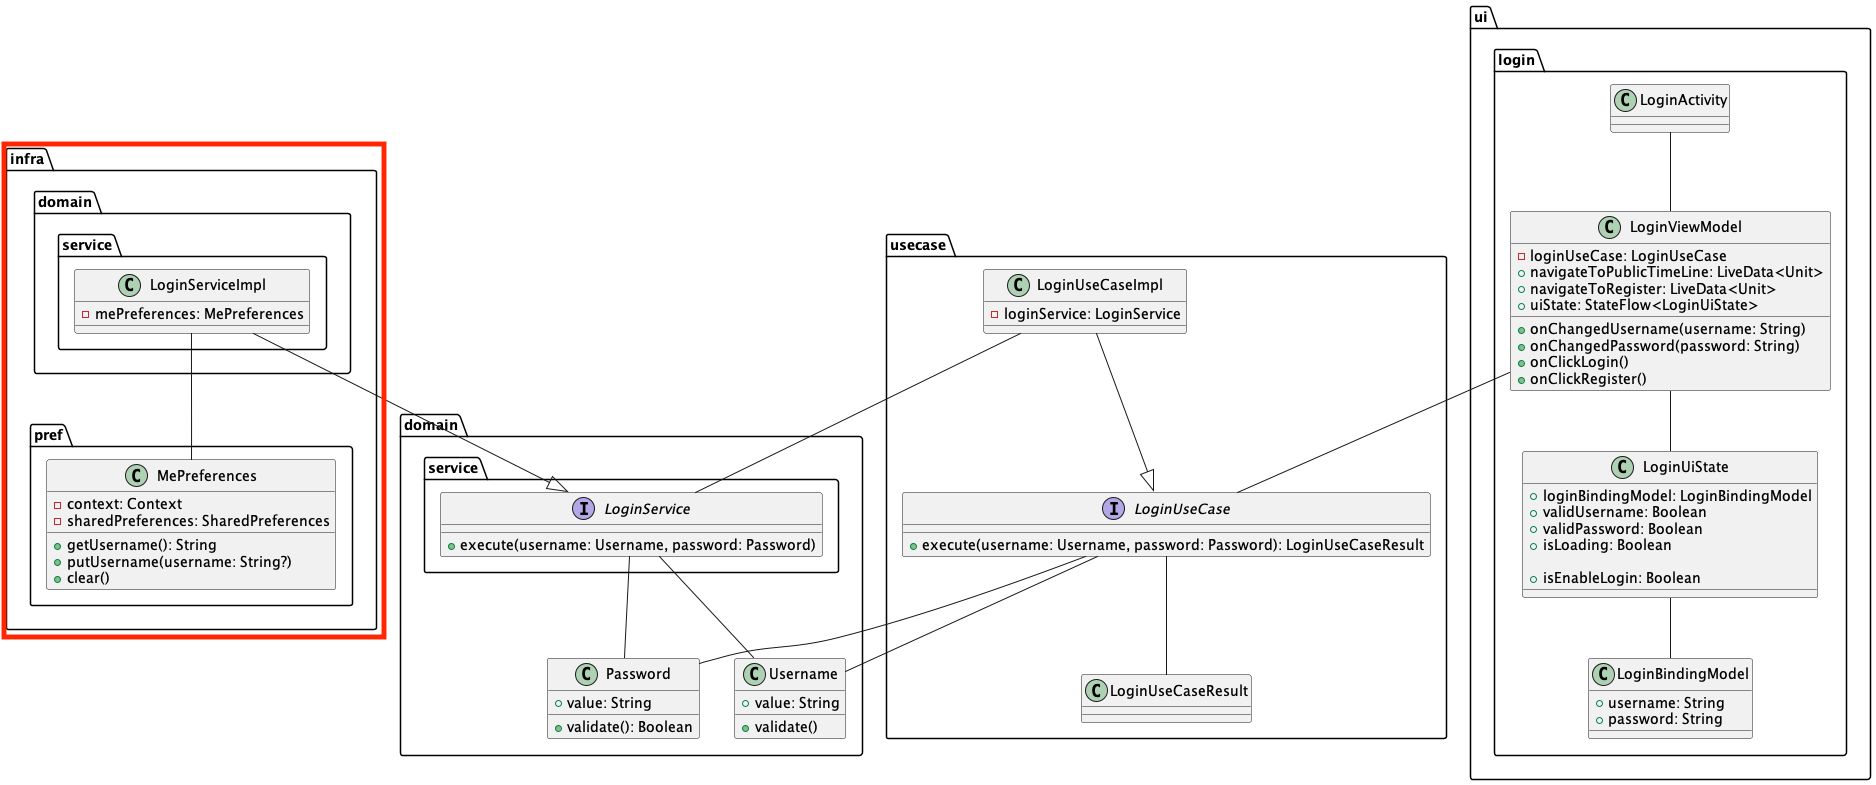
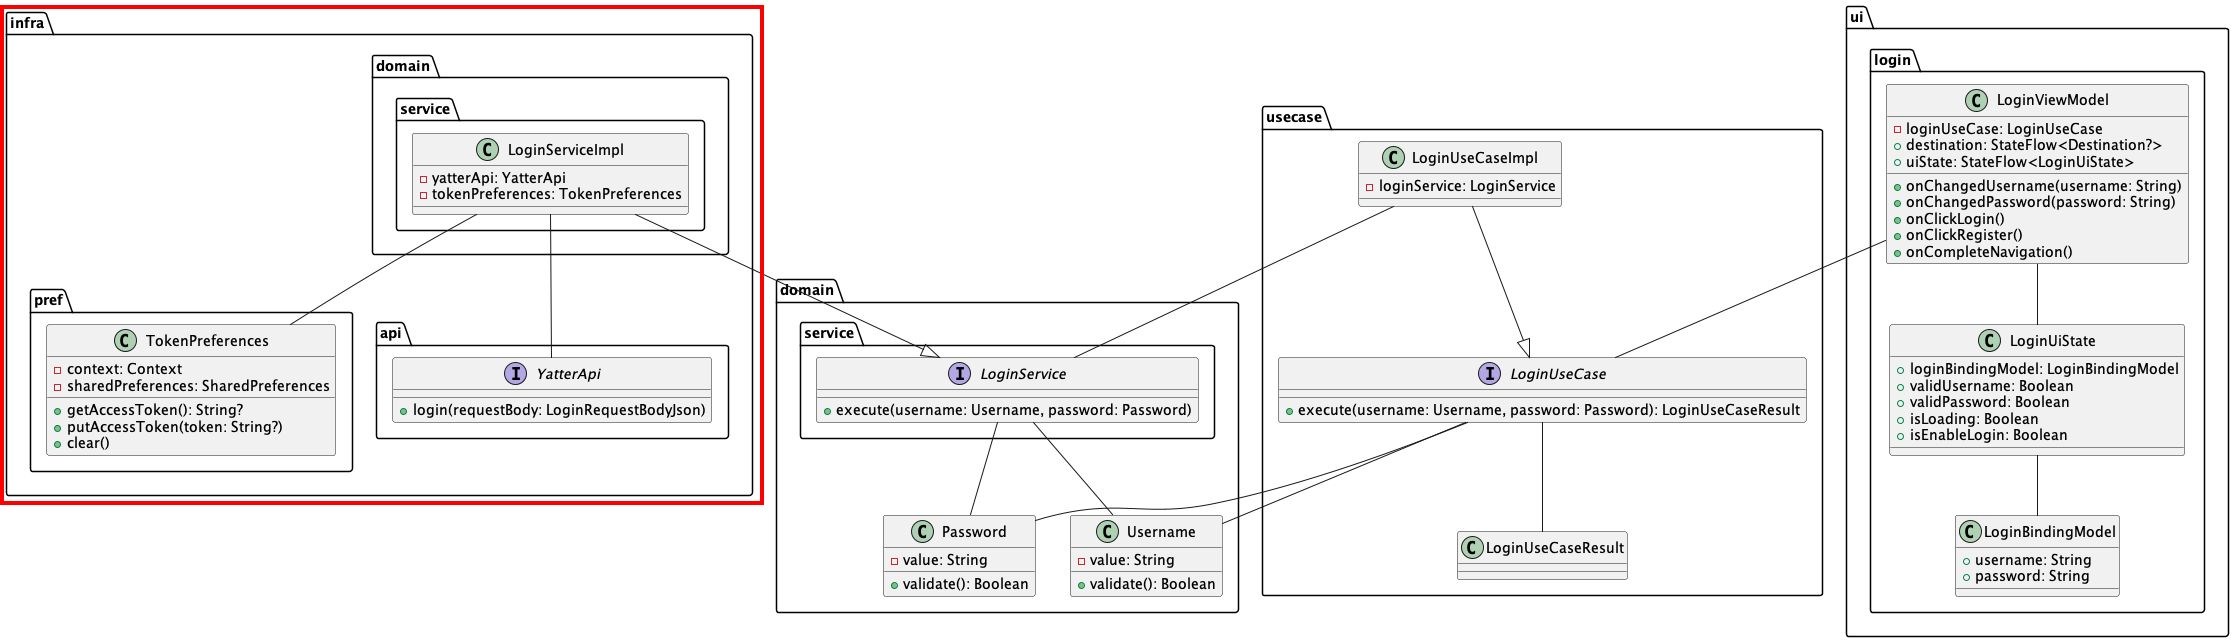
3,4をNavigation Composeに置き換え

Changed region(s): [[0.0, 0.0, 1.0, 0.9969], [0.1546, 0.0935, 0.3401, 0.1246]]

diff --git a/Yatter/3.ログイン/3_導線実装.md b/Yatter/3.ログイン/3_導線実装.md
@@ -190,16 +190,16 @@ interface CheckLoginService {
 ```
 
 `CheckLoginServiceImpl`クラスの実装です。  
-今回はユーザー情報がPreferencesに格納されているかどうかがログインを表していますのでそこを確認するように実装します。  
+今回は認証情報がPreferencesに格納されているかどうかがログインを表していますのでそこを確認するように実装します。  
 
 ```Kotlin
 // infra/domain/service/CheckLoginServiceImpl.kt
 
-internal class CheckLoginServiceImpl(
-  private val mePreferences: MePreferencese,
+class CheckLoginServiceImpl(
+  private val tokenPreferences: TokenPreferences,
 ) : CheckLoginService {
   override suspend fun execute(): Boolean {
-    return mePreferences.getUsername() != ""
+    return tokenPreferences.getAccessToken().isNullOrEmpty().not()
   }
 }
 ```
@@ -207,41 +207,49 @@ internal class CheckLoginServiceImpl(
 `CheckLoginServiceImpl`の実装が完了したら単体テストを書いてみましょう。  
 今回のテストでは次の観点の確認ができると良さそうです。  
 
-- MePreferencesに値が保存されていなければfalse
-- MePreferencesに値が保存されていればtrue
+- TokenPreferencesに値が保存されていなければfalse
+- TokenPreferencesに値が保存されていればtrue
 
 <details>
 <summary>CheckLoginServiceImplのテスト実装例</summary>
 
 ```Kotlin
 class CheckLoginServiceImplSpec {
-  private val mePreferences = mockk<MePreferences>()
-  private val subject = CheckLoginServiceImpl(mePreferences)
+  private val tokenPreferences = mockk<TokenPreferences>()
+  private val subject = CheckLoginServiceImpl(tokenPreferences)
 
   @Test
   fun getTrueWhenSavedUsername() = runTest {
-    val username = "username"
+    val accessToken = "accessToken"
 
     coEvery {
-      mePreferences.getUsername()
-    } returns username
+      tokenPreferences.getAccessToken()
+    } returns accessToken
 
     val result: Boolean = subject.execute()
 
     assertThat(result).isTrue()
+
+    verify {
+      tokenPreferences.getAccessToken()
+    }
   }
 
   @Test
   fun getFalseWhenUnsavedUsername() = runTest {
-    val username = ""
+    val accessToken = ""
 
     coEvery {
-      mePreferences.getUsername()
-    } returns username
+      tokenPreferences.getAccessToken()
+    } returns accessToken
 
     val result: Boolean = subject.execute()
 
     assertThat(result).isFalse()
+
+    verify {
+      tokenPreferences.getAccessToken()
+    }
   }
 }
 ```
@@ -291,8 +299,7 @@ class LoginDestination : Destination(ROUTE) {
 
 これらを使い、画面遷移を行います。
 
-Destinationを実装したので、ログイン画面のUI層実装で保留にした画面遷移の実装を完成させましょう。`LoginViewModel`の`onClickLogin`でログインが成功した際に`_destination`のStateFlowを`PublicTimelineDestination`で更新します。ログイン後にはパブリックタイムラインから戻るボタンでログイン画面に戻ってしまわないように、オプションとして`launchSingleTop = true`を指定しています。
-
+Destinationを実装したので、ログイン画面のUI層実装で保留にした画面遷移の実装を完成させましょう。`LoginViewModel`の`onClickLogin`でログインが成功した際に`_destination`のStateFlowを`PublicTimelineDestination`で更新します。
 
 ```kotlin
 fun onClickLogin() {
@@ -308,9 +315,7 @@ fun onClickLogin() {
     ) {
       is LoginUseCaseResult.Success -> {
         // 追加
-        _destination.value = PublicTimelineDestination {
-          launchSingleTop = true
-        }
+        _destination.value = PublicTimelineDestination()
       }
       is LoginUseCaseResult.Failure -> {
         // エラー表示
@@ -320,6 +325,23 @@ fun onClickLogin() {
   }
 }
 ```
+
+<details>
+<summary>おまけ: 戻るボタンでログイン画面に戻らないようにする</summary>
+上記の実装だと、ログイン後に戻るボタンでログイン画面に戻ることができてしまいます。
+popUpToを指定することによって、引数に指定したrouteに到達するまでNavControllerのバックスタックからroute取り出します。inclusive=trueを設定すると、指定したrouteも含めてバックスタックから取り出されるため、LoginDestinationのrouteがNavControllerのバックスタックから取り出されてなくなった状態でPublicTimelineDestinationのrouteがバックスタックに積まれるため、ログイン画面に戻ることを防ぐことができます。
+
+```kotlin
+_destination.value = PublicTimelineDestination {
+  popUpTo(LoginDestination().route) {
+    inclusive = true
+  }
+}
+```
+
+![バックスタックのイメージ](../image/3/backstack.png)
+
+</details>
 
 画面遷移が完了した後に`_destination`の値をクリアするために、`onCompleteNavigation`も実装します。
 

diff --git a/Yatter/3.ログイン/2_UI層実装.md b/Yatter/3.ログイン/2_UI層実装.md
@@ -80,7 +80,7 @@ ViewModelの実装に移ります。
 ```Kotlin
 class LoginViewModel(
   private val loginUseCase: LoginUseCase,
-) {
+) : ViewModel() {
 }
 ```
 
@@ -89,7 +89,7 @@ class LoginViewModel(
 ```Kotlin
 class LoginViewModel(...) : ViewModel() {
   private val _uiState: MutableStateFlow<LoginUiState> = MutableStateFlow(LoginUiState.empty())
-  val uiState: StateFlow<LoginUiState> = _uiState
+  val uiState: StateFlow<LoginUiState> = _uiState.asStateFlow()
 }
 ```
 
@@ -189,7 +189,7 @@ fun onChangedPassword(password: String) {
 まずは、ログイン処理成功時の画面遷移の準備をします。  
 画面遷移処理はViewModel内では実施できないため、UI側に画面遷移することを通達する手段が必要になります。  
 
-UiStateと同じように、`StateFlow`で定義します。`Destination`については後述します。
+UiStateと同じように、`StateFlow`で定義します。`Destination`については[3_導線実装](./3_導線実装.md)で後述します。
 
 ```Kotlin
 private val _destination = MutableStateFlow<Destination?>(null)
@@ -271,7 +271,7 @@ fun onClickRegister() {
 - LoginTemplate 
 
 ### Composeの実装
-Activityの用意ができたらJetpack ComposeでのUI構築に入ります。  
+ファイルの用意ができたらJetpack ComposeでのUI構築に入ります。  
 
 `LoginTemplate`コンポーザブルを`LoginTemplate`ファイルに作成し、プレビューコンポーザブルまで用意します。  
 
@@ -282,7 +282,7 @@ fun LoginTemplate() {
 
 @Preview
 @Composable
-fun LoginTemplatePreview() {
+private fun LoginTemplatePreview() {
   Yatter2024Theme {
     Surface() {
       LoginTemplate()
@@ -561,7 +561,7 @@ override fun onCreate(savedInstanceState: Bundle?) {
 
 ```Kotlin
 internal val viewModelModule = module {
-  viewModel { MainViewModel(get()) }
+//  viewModel { MainViewModel(get()) }
   viewModel { PublicTimelineViewModel(get()) }
 //  viewModel { PostViewModel(get(), get()) }
 //  viewModel { RegisterAccountViewModel(get()) }

diff --git a/Yatter/4.ツイート/2_UI層実装.md b/Yatter/4.ツイート/2_UI層実装.md
@@ -53,7 +53,7 @@ class PostViewModel(
 
 次に、必要なメソッドを定義します。  
 今回は画面の初期起動時にユーザー情報取得する`onCreate`とStatusの内容を書き換えた時に呼び出される`onChangedStatusText`、そして投稿ボタンを押下した時の`onClickPost`を用意します。  
-さらにツイート画面ではパブリックタイムライン画面に戻るために表示するボタン押下時の`onClickNavIcon`も定義します。  
+さらにツイート画面ではパブリックタイムライン画面に戻るために表示するボタン押下時の`onClickNavIcon`と画面遷移が終わったあとにDestinationを初期化する`onCompleteNavigation`も定義します。  
 
 
 ```Kotlin
@@ -65,6 +65,8 @@ class PostViewModel(...) : ViewModel() {
   fun onClickPost() {}
 
   fun onClickNavIcon() {}
+
+  fun onCompleteNavigation() {}
 }
 ```
 
@@ -94,7 +96,7 @@ fun onCreate() {
     val snapshotBindingModel = uiState.value.bindingModel
     _uiState.update {
       it.copy(
-        bindingModel = snapshotBindingModel.copy(avatarUrl = me?.avatar.toString()),
+        bindingModel = snapshotBindingModel.copy(avatarUrl = me?.avatar?.toString()),
         isLoading = false,
       )
     }
@@ -134,12 +136,21 @@ fun onClickPost() {
 }
 ```
 
-最後に、戻る用のボタン押下時の`onClickNavIcon`です。  
+戻る用のボタン押下時の`onClickNavIcon`です。  
 このメソッドでは単純に、`_destination`に値を流すだけです。  
 
 ```Kotlin
 fun onClickNavIcon() {
   _destination.value = PopBackDestination
+}
+```
+
+最後に、画面遷移が終わったあとに呼び出す`onCompleteNavigation`です。
+`_destination`にnullをセットします。
+
+```kotlin
+fun onCompleteNavigation() {
+  _destination.value = null
 }
 ```
 
@@ -164,7 +175,7 @@ fun PostTemplate() {
 
 @Preview
 @Composable
-fun PostTemplatePreview() {
+private fun PostTemplatePreview() {
   Yatter2024Theme {
     Surface() {
       PostTemplate()
